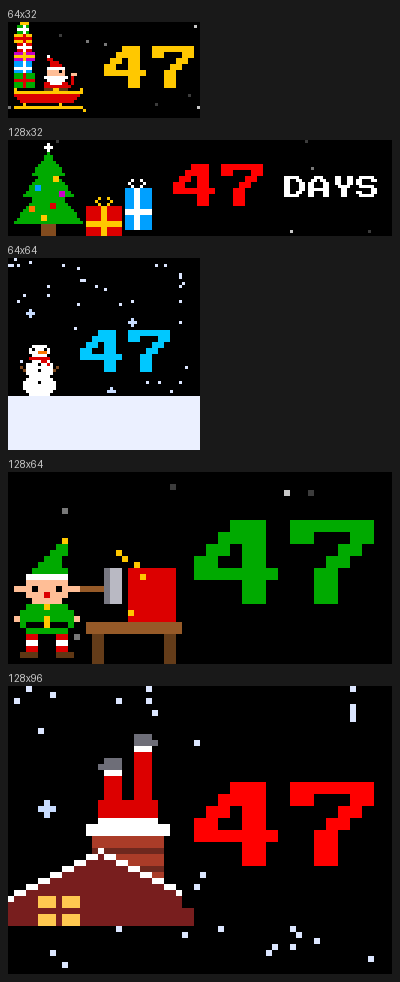
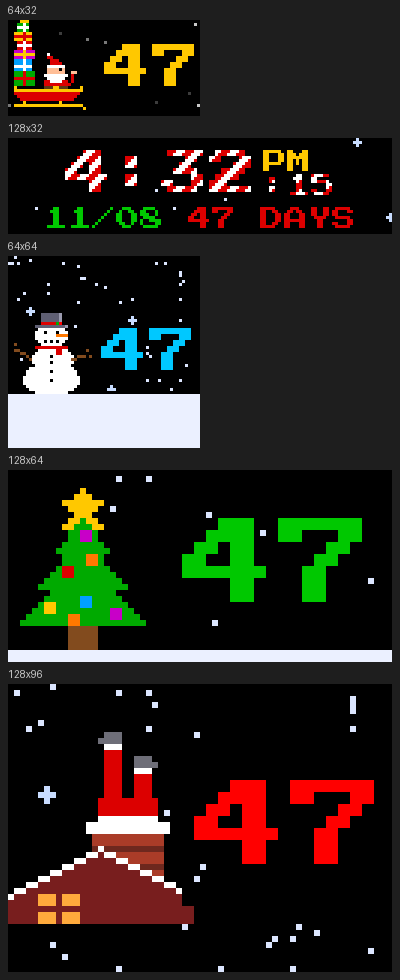
Santa's Countdown 1.1.0: loading, tree and clock scenes; gold star; big snowman.
Manifest, README and changelog at 1.1.0; README pictures regenerated
from the deployed plugin (eleven scenes). 407 checks, harness PASS at
eight sizes, manifest validates against the core schema.

diff --git a/README.md b/README.md
@@ -1,17 +1,17 @@
 # Santa's Countdown
 
-**Version 1.0.1** (2026-11-08) · by [BigC07](https://github.com/BigC07) · [Changelog](CHANGELOG.md)
+**Version 1.1.0** (2026-11-08) · by [BigC07](https://github.com/BigC07) · [Changelog](CHANGELOG.md)
 
 An animated countdown to Christmas for [LEDMatrix](https://github.com/ChuckBuilds/LEDMatrix),
 made for kids. Every time it comes round it shows a different scene, and every scene moves.
 
-![All eight scenes, animated](docs/preview.gif)
+![All eleven scenes, animated](docs/preview.gif)
 
 ## The scenes
 
-They take turns in this order, so the two elf scenes never come one after the other.
+They take turns in this order, so no two elf scenes ever come one after the other.
 
-![Sleigh, elves, snowman, presents, gingerbread, workshop, lights, chimney](docs/scenes.png)
+![Sleigh, elves, snowman, loading, presents, gingerbread, clock, workshop, lights, tree, chimney](docs/scenes.png)
 
 | Scene | What moves |
 | --- | --- |

diff --git a/CHANGELOG.md b/CHANGELOG.md
@@ -1,6 +1,6 @@
 # Changelog
 
-## [Unreleased]
+## [1.1.0] - 2026-11-08
 
 - A ninth scene, `loading`: elves load Santa's parked sleigh one present at a
   time until the tower is full, then hop while it sparkles. It comes between
